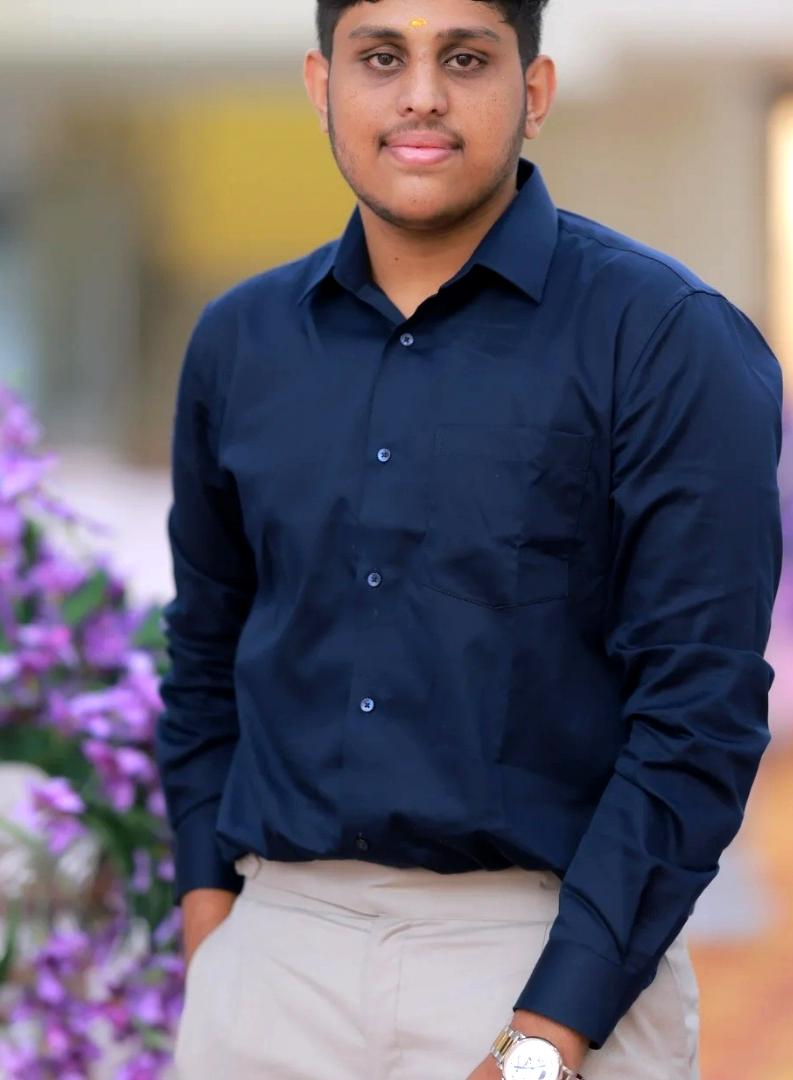
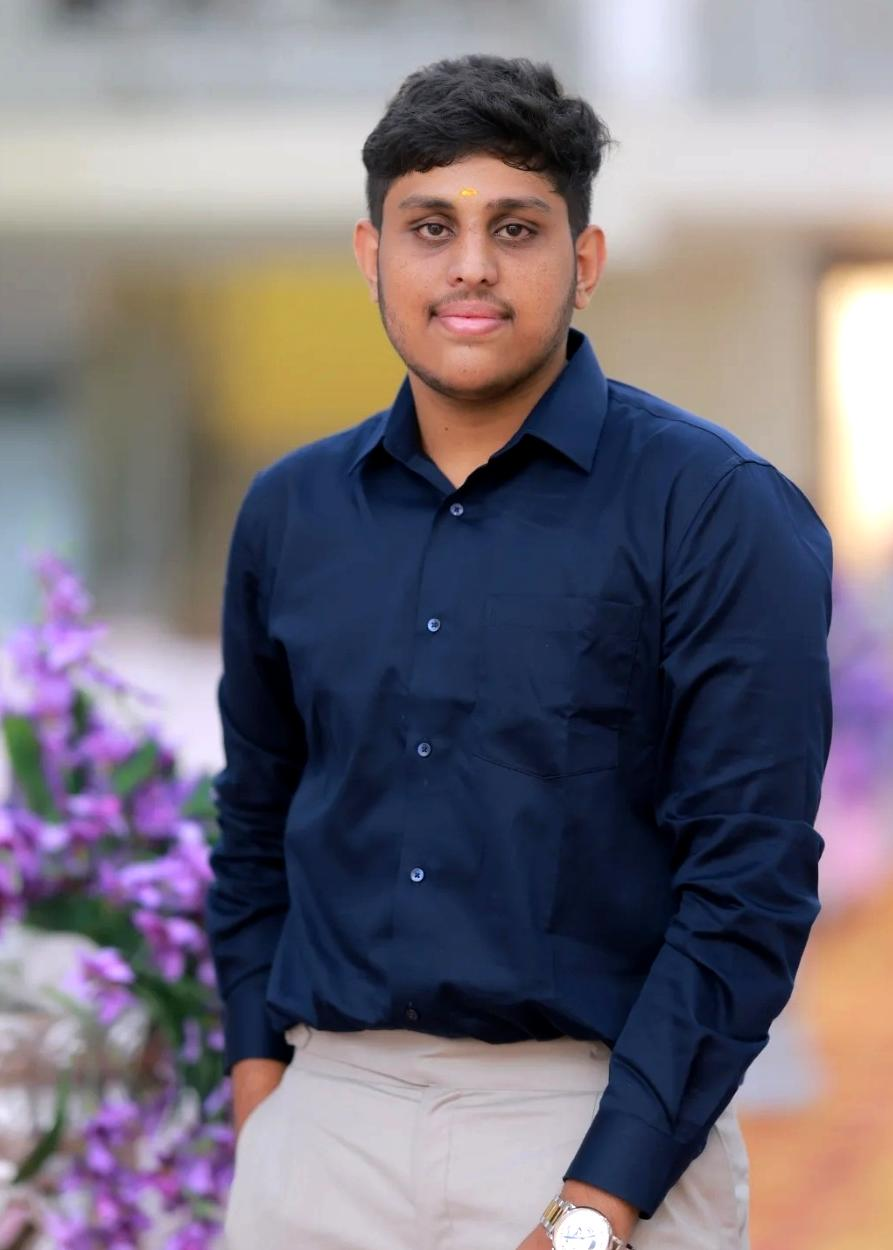
feat: fix naresh unzoom, adjust sriram profile, and add devadharshini asset

diff --git a/index.html b/index.html
@@ -5460,7 +5460,7 @@
       { isHead: false, name: 'Abinayaa', role: 'Joint Coordinator', dept: '', img: 'assets/committee/abinayaa_cropped.jpg', phone: '+910000000000', linkedin: '#' },
       { isHead: false, name: 'Adharsini', role: 'Joint Coordinator', dept: '', img: 'assets/committee/adarshini_cropped.jpg', phone: '+910000000000', linkedin: '#' },
       { isHead: false, name: 'Abirami', role: 'Joint Coordinator', dept: '', img: 'https://ui-avatars.com/api/?name=Abirami&background=e8541a&color=fff&size=128', phone: '+910000000000', linkedin: '#' },
-      { isHead: false, name: 'Devadharshini', role: 'Joint Coordinator', dept: '', img: 'https://ui-avatars.com/api/?name=Devadharshini&background=e8541a&color=fff&size=128', phone: '+910000000000', linkedin: '#' },
+      { isHead: false, name: 'Devadharshini', role: 'Joint Coordinator', dept: '', img: 'assets/committee/devadharshini_cropped.jpg', phone: '+910000000000', linkedin: '#' },
       { isHead: false, name: 'Dharshan', role: 'Joint Coordinator', dept: '', img: 'assets/committee/Dharshan.jpeg', phone: '+910000000000', linkedin: '#' },
       { isHead: false, name: 'Dhanusiya', role: 'Joint Coordinator', dept: '', img: 'https://ui-avatars.com/api/?name=Dhanusiya&background=e8541a&color=fff&size=128', phone: '+910000000000', linkedin: '#' },
       { isHead: false, name: 'Deva Priyan', role: 'Joint Coordinator', dept: '', img: 'assets/committee/Devapriyan.jpg', phone: '+910000000000', linkedin: '#' },
